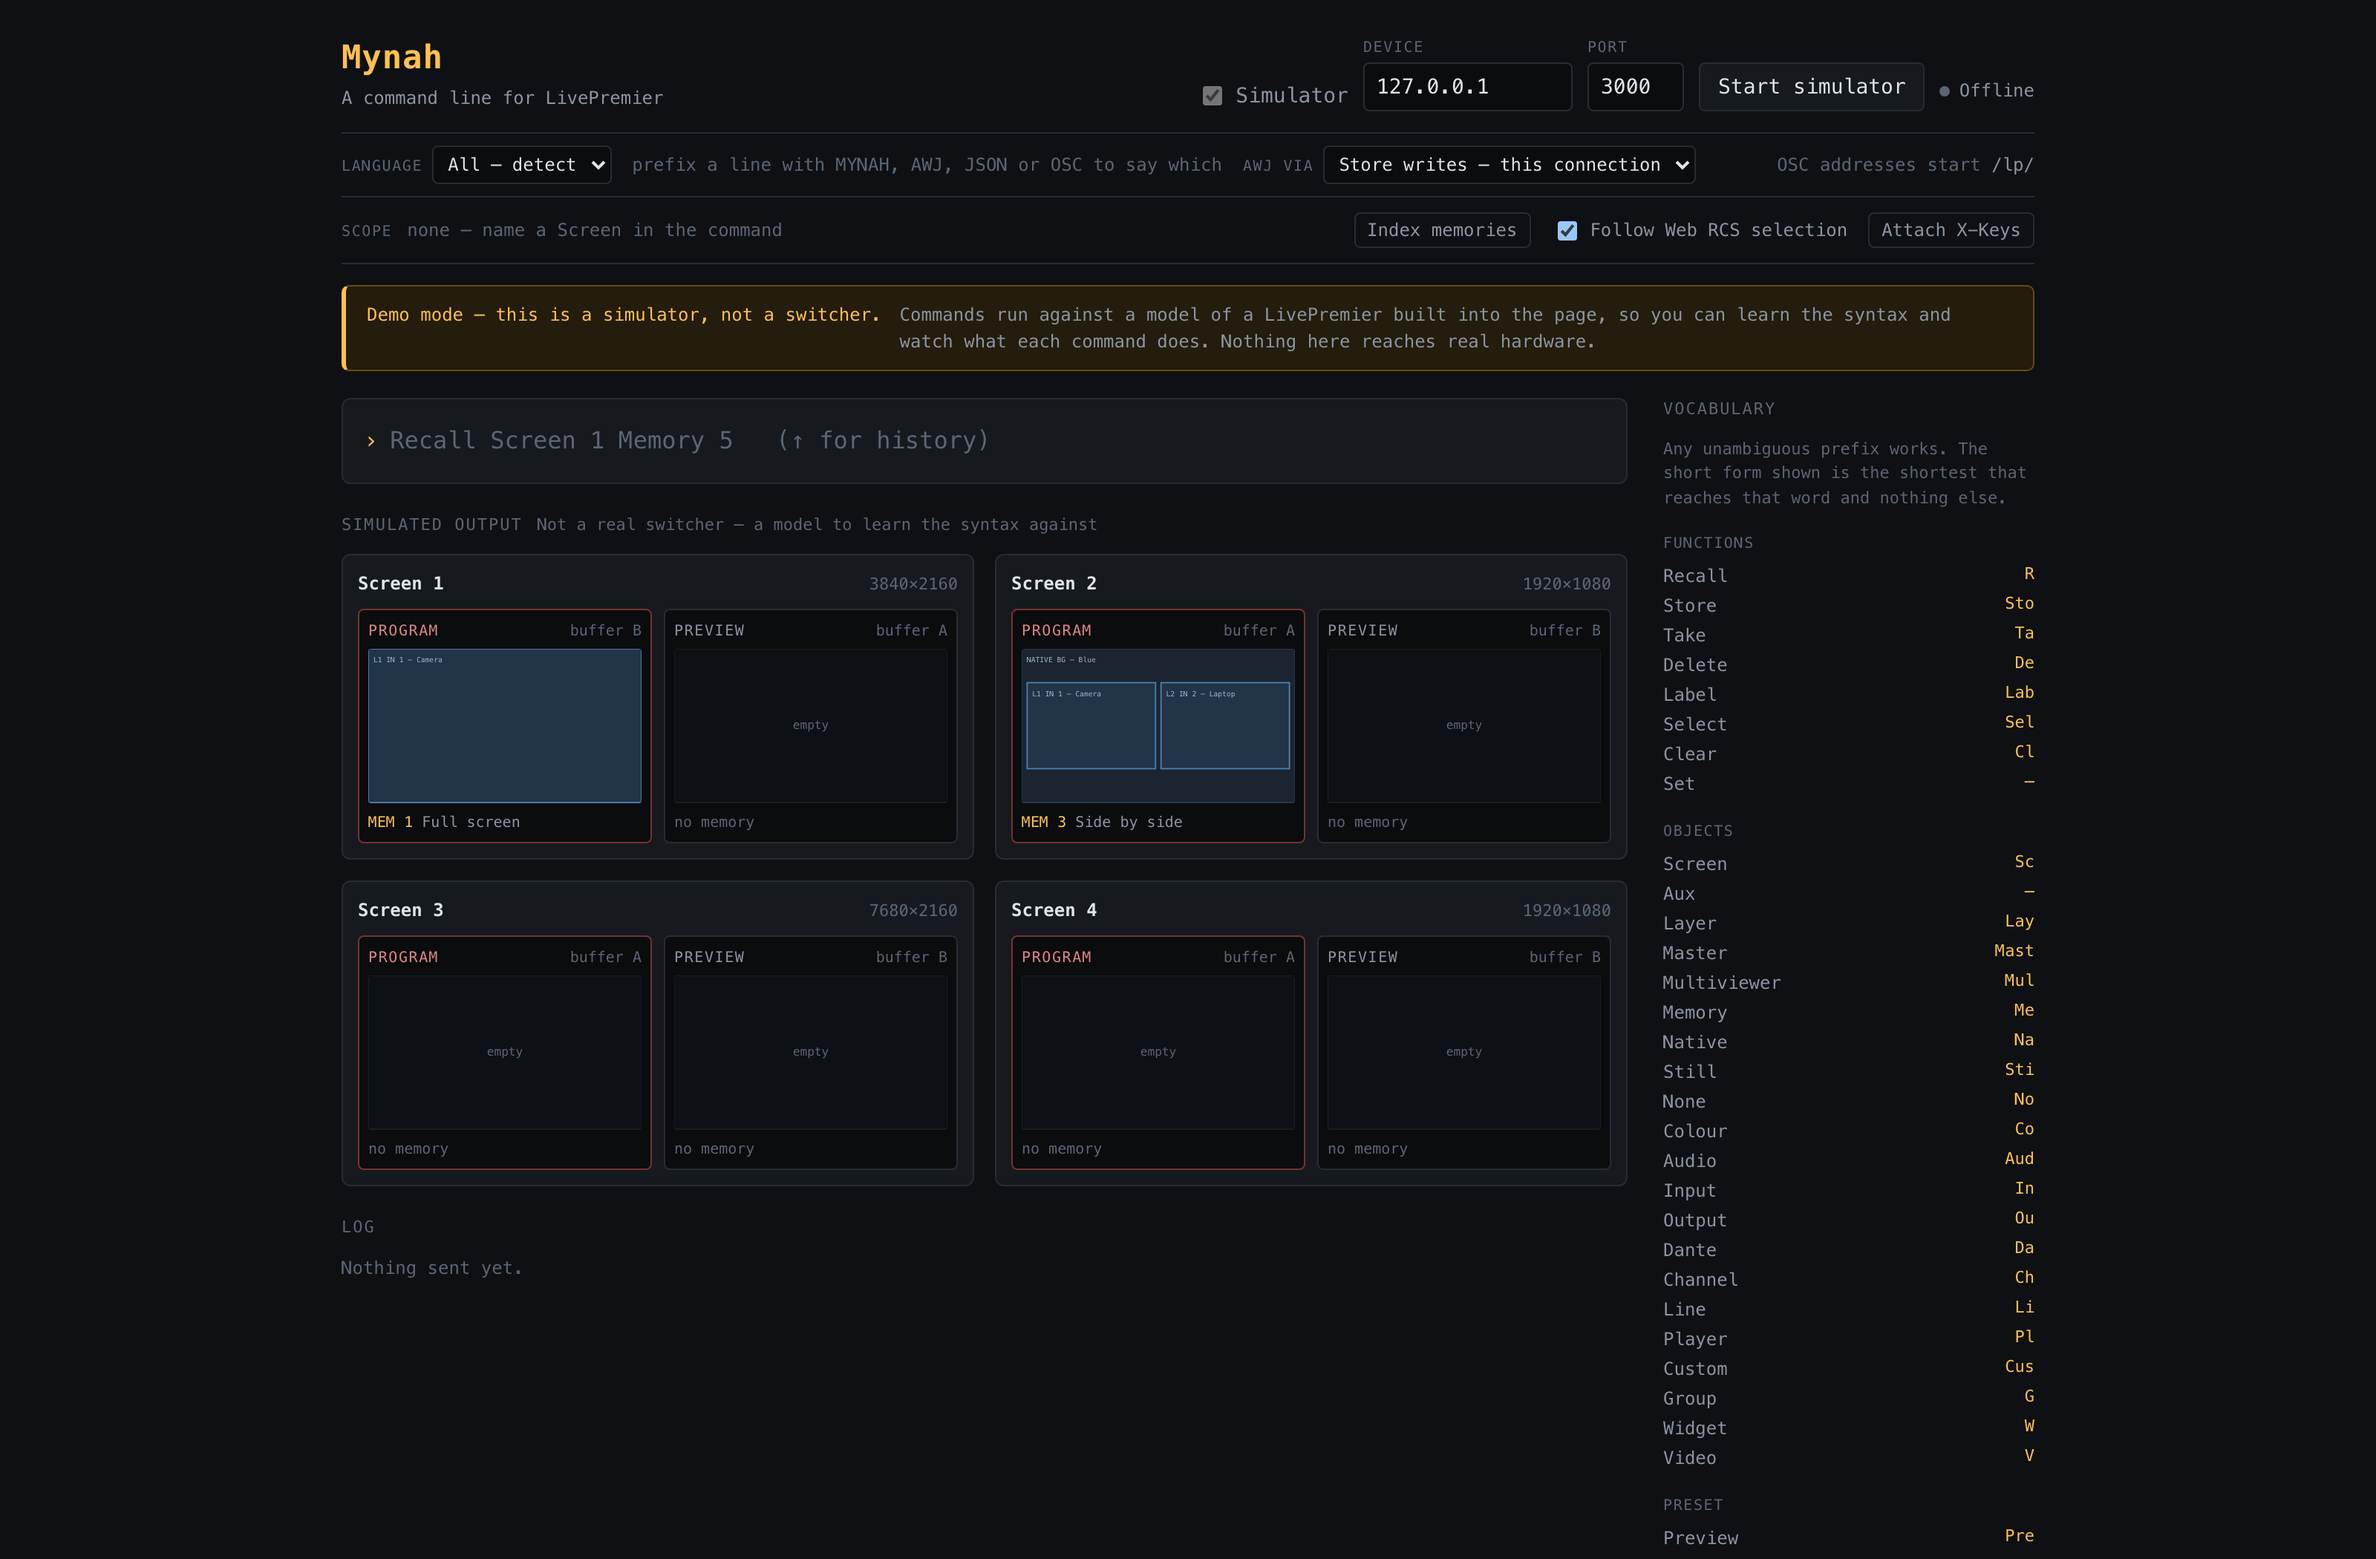
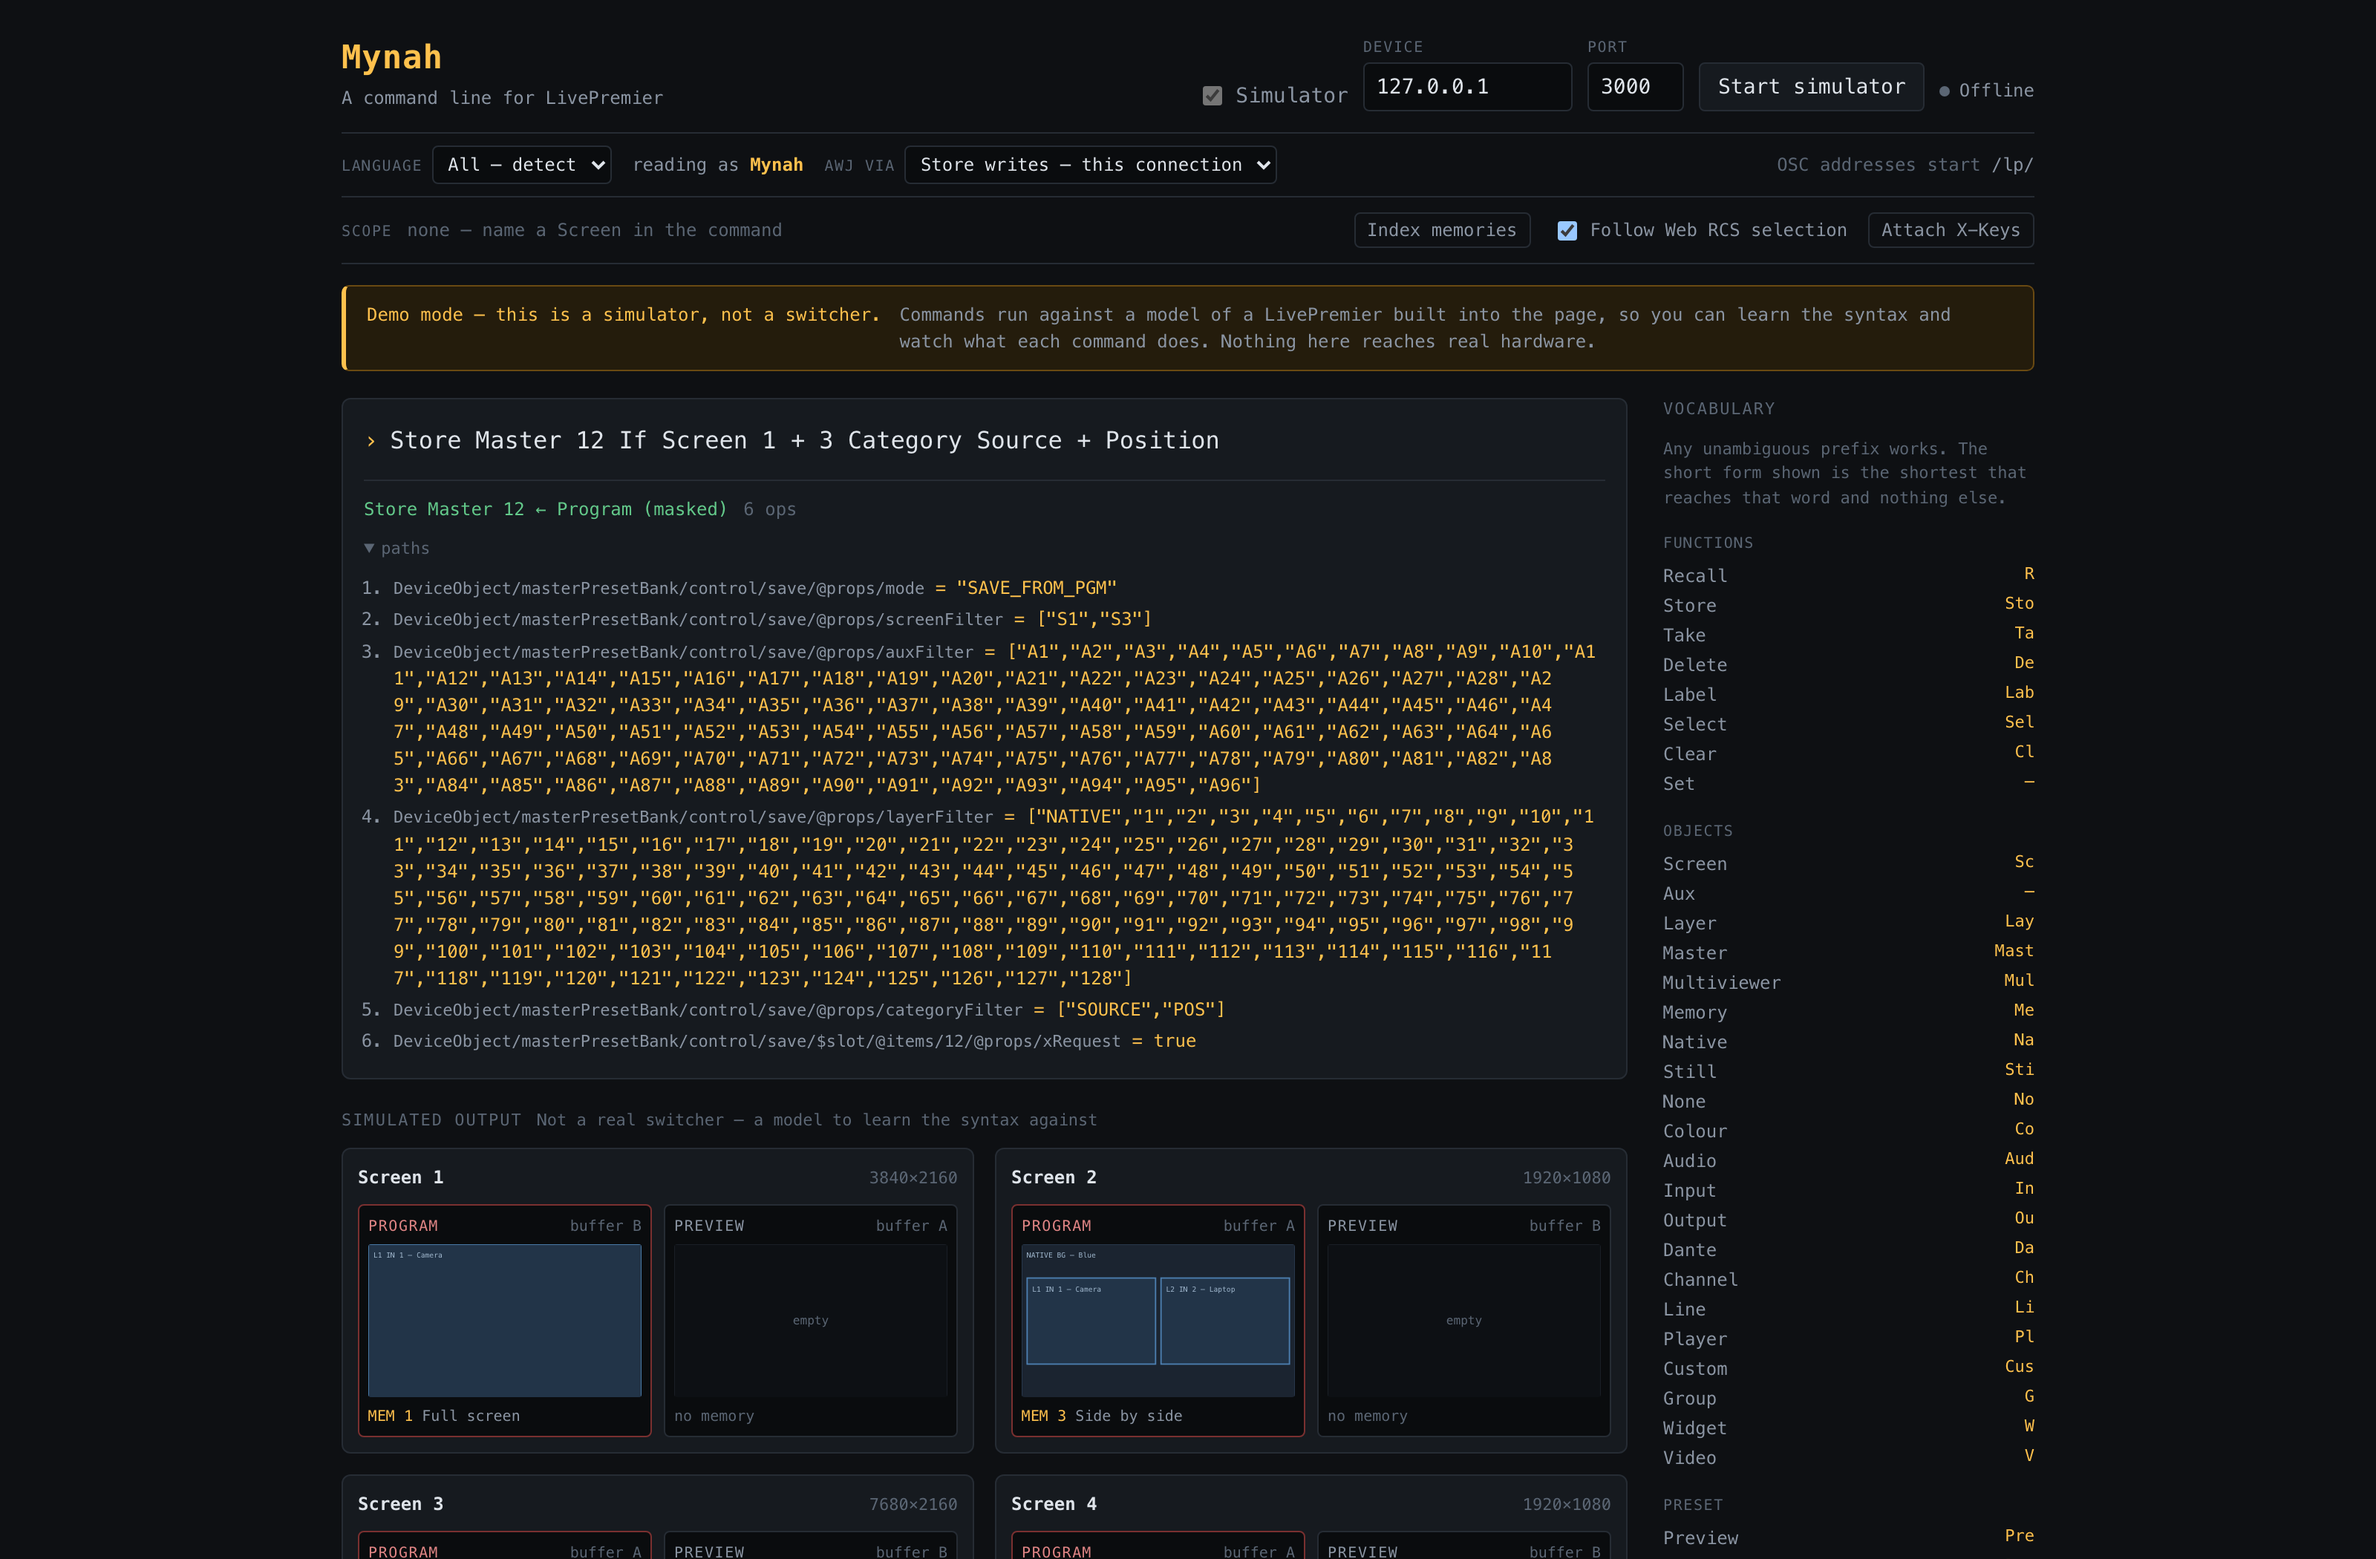
Retake the screenshot on a masked master store, compiled with its paths open

diff --git a/README.md b/README.md
@@ -27,9 +27,9 @@ It runs in a browser with nothing installed, talks to the switcher directly,
 and drives the same commands from a keyboard, an X-Keys panel, or a Stream
 Deck.
 
-![Mynah's hosted demo: the simulator on, a Recall at the prompt, four simulated screens and the vocabulary column](docs/screenshots/mynah.png)
+![Mynah's hosted demo compiling a masked master store: one typed line, six ordered writes with every path shown, and the simulated screens beneath](docs/screenshots/mynah.png)
 
-<sub>The hosted demo as it opens: the simulator on, a Recall typed at the prompt, four simulated screens with their program and preview buffers, and the vocabulary column listing every function and object with its shortest unambiguous prefix. Nothing here reaches real hardware, and the page says so.</sub>
+<sub>The hosted demo with a masked master store typed and compiled but not sent: one line becomes six ordered writes, the record mask narrowed to two screens and two categories, and every path is shown before anything would leave the browser. The simulator is on and nothing here reaches real hardware — the page says so.</sub>
 
 <!-- downloads:start -->
 
